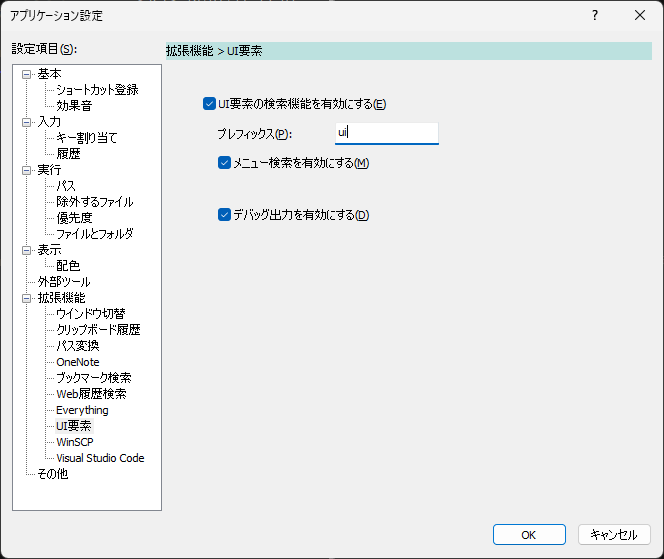
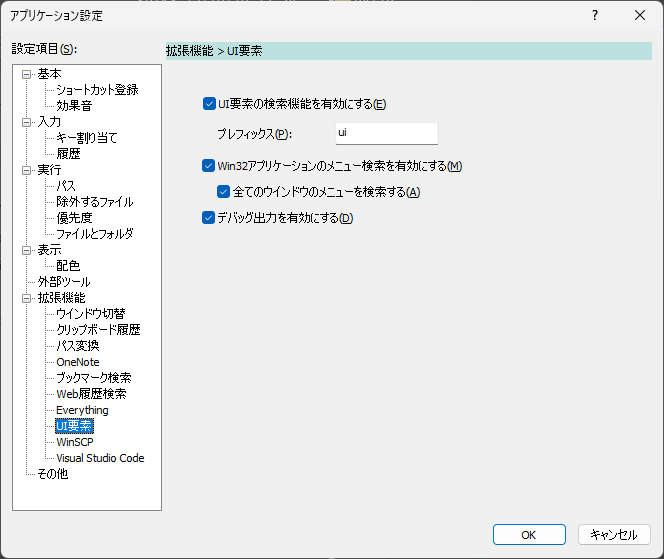
docs : マニュアル更新

diff --git a/doc/manuals/source/window/app-settings.md b/doc/manuals/source/window/app-settings.md
@@ -17,7 +17,7 @@
 - `ランチャー呼び出しキー`
   - 入力画面を表示するためのホットキーを設定することができる
 - `入力画面を非表示にして起動する`
-  - チェックすると、起動直後に入力画面を表示しない
+  - 起動直後に入力画面を表示しない
 - `入力画面を最前面に表示`
   - 入力画面を表示するとき、入力画面を他のウインドウより前面に表示するようにする
 - `入力画面の表示位置`  
@@ -30,11 +30,11 @@
 アクティブなウインドウが表示されているモニターの中央位置に入力画面を表示する  
 ただし、アクティブなウインドウがない場合は前回と同じ位置に表示する
 - `すでにアクティブなときに呼び出しキーを押したら隠れる`
-  - チェックすると、ランチャー呼び出しキーを押すたびに入力画面の表示/非表示が切り替わる
+  - ランチャー呼び出しキーを押すたびに入力画面の表示/非表示が切り替わる
 - `フォーカスを失ったらウインドウを隠す`
-  - チェックすると、入力画面がフォーカスを失ったときに、入力画面を非表示にする
+  - 入力画面がフォーカスを失ったときに、入力画面を非表示にする
 - `隠れるときに入力文字列を消去しない`
-  - チェックすると、コマンドを実行せずに入力画面を非表示にする際に入力文字列を消去しない
+  - コマンドを実行せずに入力画面を非表示にする際に入力文字列を消去しない
     - 入力画面を次回再表示した際に、前回入力していた内容が維持される
 
 ### App HotKey
@@ -71,17 +71,17 @@ Ctrl+A
 ![](../image/setting2.png)
 
 - `「送る」から登録できるようにする`
-  - チェックすると、本アプリにコマンドを登録するためのメニューが、エクスプローラのコンテキストメニューの「送る」に追加される
+  - 本アプリにコマンドを登録するためのメニューが、エクスプローラのコンテキストメニューの「送る」に追加される
 ![](../image/sendto.png)
 
 - `スタートメニューに登録する`
-  - チェックすると、本アプリを起動するためのメニューがスタートメニューに登録される
+  - 本アプリを起動するためのメニューがスタートメニューに登録される
 
 - `デスクトップに登録する`
-  - チェックすると、本アプリを起動するためのショートカットがデスクトップに配置される
+  - 本アプリを起動するためのショートカットがデスクトップに配置される
 
 - `スタートアップに登録する`
-  - チェックすると、Windowsにログオン(サインイン)した後に自動で本アプリを起動する
+  - Windowsにログオン(サインイン)した後に自動で本アプリを起動する
 
 - `作成したショートカットをすべて削除する`
   - 上記で作成したショートカットをすべて削除する
@@ -111,10 +111,10 @@ mp3ファイルのみ指定可能(他の音声ファイルには非対応)
 ![](../image/setting3.png)
 
 - `入力画面を表示するときにIMEをオフにする`
-  - チェックすると、入力画面を表示したタイミングでIMEをオフにする
+  - 入力画面を表示したタイミングでIMEをオフにする
 
 - `ネットワークパスを無視する`
-  - チェックすると、`\\(コンピュータ名)`で始まるパスを本アプリでは開かないようにする
+  - `\\(コンピュータ名)`で始まるパスを本アプリでは開かないようにする
     - 環境によっては、ネットワークパスの情報を参照したときに数十秒ほど固まることがあるため
 
 - `C/Migemoによるローマ字検索を有効にする`
@@ -188,7 +188,7 @@ mp3ファイルのみ指定可能(他の音声ファイルには非対応)
 ![](../image/setting4.png)
 
 - `フォルダを開くファイラーを指定`
-  - チェックすると、エクスプローラ以外のファイラーを使うことができる
+  - エクスプローラ以外のファイラーを使うことができる
 - `ファイラーのパス`
   - 起動する外部ファイラーの実行ファイルのパスを指定する
 - `パラメータ`
@@ -196,7 +196,7 @@ mp3ファイルのみ指定可能(他の音声ファイルには非対応)
   - `$target`が実際に開かれる対象(ファイルやフォルダ)のパスに置き換えられる
 
 - `「ファイル名を指定して実行」機能を使用する`
-  - チェックすると、 [`ファイル名を指定して実行`](#ファイル名を指定して実行) コマンドを有効にする。
+  -  [`ファイル名を指定して実行`](#ファイル名を指定して実行) コマンドを有効にする。
 
 - `未登録キーワード入力時の動作`  
 コマンドとして登録されていない（かつ、[コマンドとして登録していなくても実行できる機能](/adhoc-commands) として作用しない） キーワードを入力したときの動作を指定する  
@@ -334,16 +334,16 @@ mp3ファイルのみ指定可能(他の音声ファイルには非対応)
   - 入力欄に何も文字を入力していない状態のときにテキストを表示する  
 ![](../image/placeholder.png)
 - `操作ガイド欄を表示する`
-  - チェックすると、コメント表示欄の下に操作ガイド欄を表示する  
+  - コメント表示欄の下に操作ガイド欄を表示する  
 ![](../image/guidelabel.png)
 - `候補欄にコマンド種別を表示する`
-  - チェックすると、コマンドの種別を候補リストに表示する  
+  - コマンドの種別を候補リストに表示する  
 ![](../image/showcmdtype.png)
 - `候補欄の背景色を交互に変える`
-  - チェックすると、候補欄の奇数行と偶数行の背景色を変えて表示を行う  
+  - 候補欄の奇数行と偶数行の背景色を変えて表示を行う  
 ![](../image/alternatecolor.png)
 - `候補欄の各項目のアイコンを表示する`
-  - チェックすると、候補欄の項目ごとにアイコンを表示する
+  - 候補欄の項目ごとにアイコンを表示する
   - 左: アイコンを表示する場合  右:表示しない場合  
 ![](../image/showicon.png)
 - `入力欄の透過表示`
@@ -365,8 +365,8 @@ mp3ファイルのみ指定可能(他の音声ファイルには非対応)
 ![](../image/appsetting-color.png)
 
 - `システムの色設定を使用する`
-  - チェックすると、Windowsのシステム設定の配色でウインドウを描画する
-  - チェックしない場合は、アプリで独自設定した色を使用する
+  - Windowsのシステム設定の配色でウインドウを描画する
+  - 選択しない場合は、アプリで独自設定した色を使用する
 
 - `システムの色設定に戻す`
   - 色設定を初期値に戻す
@@ -401,7 +401,7 @@ mp3ファイルのみ指定可能(他の音声ファイルには非対応)
 ![](../image/appsetting/externaltool/settingpage.png)
 
 - `ブックマーク検索／Web履歴検索においてEdge以外のWebブラウザも利用する`  
-チェックすると、ブックマーク検索／Web履歴検索機能において、外部ツールを利用できる
+ブックマーク検索／Web履歴検索機能において、外部ツールを利用できる
   - `Chromeを使う`  
 外部ツールとしてChromeを使う  
   - `別のWebブラウザを指定する`  
@@ -419,7 +419,7 @@ mp3ファイルのみ指定可能(他の音声ファイルには非対応)
 指定したWebブラウザのブックマークや履歴の情報が保存されたフォルダのパスを指定する。  
 関連機能: [ブックマーク検索](/adhoc-command/bookmarks)、[Web履歴検索](/adhoc-command/webhistory)
 - `コマンドからURLを開くとき、既定のブラウザではなく、上記のWebブラウザを使う`  
-チェックすると、URLを参照するコマンドを実行したときや、入力欄にURLを直接入力したときに、ここで設定したWebブラウザが使われる。
+URLを参照するコマンドを実行したときや、入力欄にURLを直接入力したときに、ここで設定したWebブラウザが使われる。
 
 ### Restrictions
 
@@ -443,25 +443,25 @@ mp3ファイルのみ指定可能(他の音声ファイルには非対応)
 PCにインストールした`Python3`の本体DLLへのパスを指定する  
 (Python3.12以降の`python3.dll`へのパスを指定する)
   - `簡易電卓機能を有効にする`  
-チェックすると、入力画面に入力したテキストを数式として評価して、その計算結果を表示する  
+入力画面に入力したテキストを数式として評価して、その計算結果を表示する  
 ![](../image/calculator.png)
   - `Enter`キーを押すと、計算結果をクリップボードにコピーする
 - `システム関連の機能`
   - `コントロールパネル項目を候補として表示する`
-    - チェックすると、コントロールパネル項目を候補として表示し、それを実行したら、該当するコントロールパネル項目を開く  
+    - コントロールパネル項目を候補として表示し、それを実行したら、該当するコントロールパネル項目を開く  
 ![](../image/controlpanel-command.png)
   - `スタートメニュー／最近使ったファイルを候補として表示する`
-    - チェックすると、ファイルを候補として表示・実行する
+    - ファイルを候補として表示・実行する
       - スタートメニューに登録されたプログラム
       - Windowsの`最近使ったファイル`に登録されたファイル
   - `アプリケーション(UWPアプリなど)を候補として表示する`
-    - チェックすると、実行環境にインストールされているアプリケーション(UWPアプリを含む)を候補として表示・実行する
+    - 実行環境にインストールされているアプリケーション(UWPアプリを含む)を候補として表示・実行する
   - `MMCスナップインを候補として表示する`
-    - チェックすると、実行環境にインストールされている[MMCスナップイン](/adhoc-command/mmcsnapin)を候補として表示する
+    - 実行環境にインストールされている[MMCスナップイン](/adhoc-command/mmcsnapin)を候補として表示する
   - `Windowsの設定を候補として表示する`
-    - チェックすると、[Windows設定](/adhoc-command/windowssettings)の各ページ項目を候補として表示する
+    - [Windows設定](/adhoc-command/windowssettings)の各ページ項目を候補として表示する
   - `環境変数を候補として表示する`
-    - チェックすると、[環境変数](/adhoc-command/env)の一覧を候補として表示する
+    - [環境変数](/adhoc-command/env)の一覧を候補として表示する
 
 ## Extensions > Switch Window
 
@@ -506,7 +506,7 @@ PCにインストールした`Python3`の本体DLLへのパスを指定する
 ![](../image/appsetting-clipboardhistory.png)
 
 - `有効にする`
-  - チェックすると、[クリップボード履歴](/adhoc-command/clipboard-history)機能を有効にする
+  - [クリップボード履歴](/adhoc-command/clipboard-history)機能を有効にする
 - `プレフィックス`
   - クリップボード履歴を候補として表示するためのキーワードを指定する  
 ![](../image/clipboardhistory-prefix.png)
@@ -521,27 +521,27 @@ PCにインストールした`Python3`の本体DLLへのパスを指定する
 - `無視するパターン`
   - 指定した正規表現パターンに合致するテキストを履歴に追加しない
 - `クリップボード履歴ではC/Migemoを使用しない`
-  - チェックすると、クリップボード履歴の候補の絞り込みにおいて、C/Migemoによる正規表現マッチングを使用しない
+  - クリップボード履歴の候補の絞り込みにおいて、C/Migemoによる正規表現マッチングを使用しない
     - 現状のアプリの実装だと、クリップボード履歴の絞り込みにおいてC/Migemoが生成した正規表現を使ってマッチングをすると、すこし遅い感じがあるため無効化できるようにする
     - チェックを外した場合は[入力](/window/app-settings.md#keyword-input)設定に従う
 - `プレビューウインドウを表示する`
-  - チェックすると、候補欄で選択したクリップボード履歴のテキスト内容を確認するためのプレビューウインドウを表示する。
+  - 候補欄で選択したクリップボード履歴のテキスト内容を確認するためのプレビューウインドウを表示する。
 
 ## Extension > Path Conversion
 
 ![](../image/appsetting-pathconvert.png)
 
 - `git-bashパスをローカルパス表記に変換する`
-  - チェックすると、[git-bashパス変換](/adhoc-command/git-bash-pashconvert)を有効にする
+  - [git-bashパス変換](/adhoc-command/git-bash-pashconvert)を有効にする
 - `file://...をローカルパス表記に変換する`
-  - チェックすると、[fileプロトコルをローカルパスに変換](/adhoc-command/file-pathconvert)を有効にする
+  - [fileプロトコルをローカルパスに変換](/adhoc-command/file-pathconvert)を有効にする
 
 ## Extension > OneNote
 
 ![](../image/adhoc-command/onenote/appsetting.png)
 
 - `機能を有効にする`  
-チェックすると、[OneNoteページ検索](/adhoc-command/onenote)機能が有効になる。
+[OneNoteページ検索](/adhoc-command/onenote)機能を有効にする。
 - `プレフィックス`  
 検索を開始するためのキーワードを指定する。  
 空欄にすると、検索が常に有効になる。
@@ -553,52 +553,52 @@ PCにインストールした`Python3`の本体DLLへのパスを指定する
 ![](../image/adhoc-command/bookmarks/appsetting.png)
 
 - `機能を有効にする`  
-チェックすると、[ブックマーク検索](/adhoc-command/bookmarks)機能が有効になる。
+[ブックマーク検索](/adhoc-command/bookmarks)機能を有効にする。
 - `プレフィックス`  
 検索を開始するためのキーワードを指定する。  
 空欄にすると、検索が常に有効になる。
 - `検索を実行する最小文字数`  
 その文字数以上のキーワードを入力したときに検索を行う。0を指定すると常に検索を行う。
 - `Edgeのお気に入りを候補として表示する`  
-チェックすると、Edgeのお気に入りを検索対象とする
+Edgeのお気に入りを検索対象とする
 - `Webブラウザ(外部ツール)のブックマークを候補として表示する`  
-チェックすると、[外部ツール](#externaltool)で指定したWebブラウザのブックマークを検索対象とする
+[外部ツール](#externaltool)で指定したWebブラウザのブックマークを検索対象とする
 - `URL文字列を候補の絞り込みに使う`  
-チェックすると、URL文字列(とブックマーク名)を候補の絞り込みに使う。チェックしない場合はブックマーク名のみで絞り込みする
+URL文字列(とブックマーク名)を候補の絞り込みに使う。選択しない場合はブックマーク名のみで絞り込みする
 
 ## Extension > WebHistory
 
 ![](../image/adhoc-command/webhistory/appsetting.png)
 
 - `機能を有効にする`  
-チェックすると、[Web履歴検索](/adhoc-command/webhistory)機能が有効になる。
+[Web履歴検索](/adhoc-command/webhistory)機能を有効にする。
 - `プレフィックス`  
 検索を開始するためのキーワードを指定する。  
 空欄にすると、検索が常に有効になる。
 - `検索を実行する最小文字数`  
 その文字数以上のキーワードを入力したときに検索を行う。0を指定すると常に検索を行う。
 - `Edgeの履歴を候補として表示する`  
-チェックすると、Edgeの閲覧履歴から入力キーワードに該当するものを候補として表示する
+Edgeの閲覧履歴から入力キーワードに該当するものを候補として表示する
 - `Webブラウザ(外部ツール)の履歴を候補として表示する`  
-チェックすると、[外部ツール](#externaltool)で指定したWebブラウザの履歴を検索対象とする
+[外部ツール](#externaltool)で指定したWebブラウザの履歴を検索対象とする
 - `検索の上限件数`  
 候補の上限件数を設定する。多くするほどQuery処理に時間がかかる。
 - `Migemoを検索を利用する`  
 絞り込みの際にMigemo検索を使うかどうかを指定する。Migemo検索は(使わない場合と比べて)時間がかかるので、非力なPCだと十分な結果が得られない可能性がある。
 - `URL文字列を候補の絞り込みに使う`  
-チェックすると、URL文字列も考慮した絞り込みを行う。チェックしない場合は履歴のページタイトルのみで絞り込みを行う。
+URL文字列も考慮した絞り込みを行う。選択しない場合は履歴のページタイトルのみで絞り込みを行う。
 
 ## Extension > Everything
 
 ![](../image/adhoc-command/everything-appsetting.png)
 
 - `機能を有効にする`  
-チェックすると、[Everything検索](/adhoc-command/everything)機能が有効になる。
+[Everything検索](/adhoc-command/everything)機能が有効にする。
 - `プレフィックス`  
 検索を開始するためのキーワードを指定する。  
 空欄にすると、Everything検索が常に有効になる。
 - `Everythingが起動していなかった場合に起動する`  
-チェックした場合、Everythingのアプリが起動していなかった場合に起動を試みる。  
+Everythingのアプリが起動していなかった場合に起動を試みる。  
 (Everything検索を行うためにはEverythingのアプリが起動している必要がある)
 - `Everything.exeのパス`   
 アプリを起動する際の実行ファイルのパスを指定する。
@@ -613,26 +613,28 @@ PCにインストールした`Python3`の本体DLLへのパスを指定する
 ![](../image/appsetting/extensions/uiautomation/uiautomation.png)
 
 - `UI要素の検索機能を有効にする`  
-チェックすると、[UI要素](/adhoc-command/uiautomation)機能が有効になる。
+[UI要素](/adhoc-command/uiautomation)機能をオンにする。
 - `プレフィックス`  
-検索を開始するためのキーワードを指定する。  
-空欄にすると、UI要素検索が常に有効になる。
-- `メニュー検索を有効にする`  
-Win32アプリケーションのメニュー検索を有効にする  
-ウインドウ上部にあるメニューの各メニュー項目を検索できるようになる
+UI要素検索を開始するためのキーワードを指定する。  
+空欄の場合は、UI要素検索が常に有効になる。
+- `Win32アプリケーションのメニュー検索を有効にする`  
+Win32アプリケーションのウインドウ上部にあるメニュー項目を候補として表示する。  
+  - `全てのウインドウのメニュー検索を有効にする`  
+画面上に表示されているすべてのWin32アプリケーションのメニュー項目を候補に含める。
+オフの場合は、アクティブなウインドウのみを対象とする。
 - `デバッグ出力を有効にする`  
-デバッグ用のコマンド `uiautomation-debug-dump`機能を有効にする。  
-このコマンドを実行すると、ログ出力ディレクトリに `uiautomation.json`というファイルを生成し、UIAutomationElementの階層構造を示す情報をJSON形式で保存する。
+デバッグ用のコマンド `uiautomation-debug-dump`を使用可能にする。
+このコマンドを実行すると、ログ出力ディレクトリに `uiautomation.json`を生成し、UIAutomationElementの階層構造をJSON形式で保存する。
 
 ## Extension > WinSCP
 
 ![](../image/adhoc-command/winscp-appsetting.png)
 
 - `機能を有効にする`  
-チェックすると、[WinSCPのセッション一覧を表示する](/adhoc-command/winscp)機能が有効になる。
+[WinSCPのセッション一覧を表示する](/adhoc-command/winscp)機能を有効にする。
 - `ポータブル版のWinSCPを利用する`  
 インストール版のWinSCPではなく、ポータブル版のWinSCPを使用している場合に使用する設定。  
-チェックすると、`WinSCP.exeのパス`欄が有効になる。  
+`WinSCP.exeのパス`欄で指定した実行ファイルを用いる。
 - `WinSCP.exeのパス`  
 ポータブル版のWinSCPを使用している場合の`WinSCP.exe`のパスを指定する。
 
@@ -641,7 +643,7 @@ Win32アプリケーションのメニュー検索を有効にする
 ![](../image/adhoc-command/vscode/appsetting.png)
 
 - `機能を有効にする`  
-チェックすると、[Visual Studio Code履歴](/adhoc-command/vscode)機能が有効になる。
+[Visual Studio Code履歴](/adhoc-command/vscode)機能を有効にする。
 - `プレフィックス`  
 機能発動のためのキーワードを指定する。  
 空欄にすると、キーワードを含む要素が常に候補として表示される。
@@ -675,7 +677,7 @@ Win32アプリケーションのメニュー検索を有効にする
 出力先は`<設定ファイルの保存先>/per_machine/<PC名>/perf.log`
 
 - `連続で作業していたら警告する`
-  - チェックすると、`警告を表示するまでの時間`で設定した時刻を超えて連続稼働(スクリーンロックを挟まずにPCを起動)した場合に警告メッセージを表示する
+  - `警告を表示するまでの時間`で設定した時刻を超えて連続稼働(スクリーンロックを挟まずにPCを起動)した場合に警告メッセージを表示する
 - `警告を表示するまでの時間`
   - 警告を表示するまでの時間を分数で指定する(デフォルトは90分)
 
